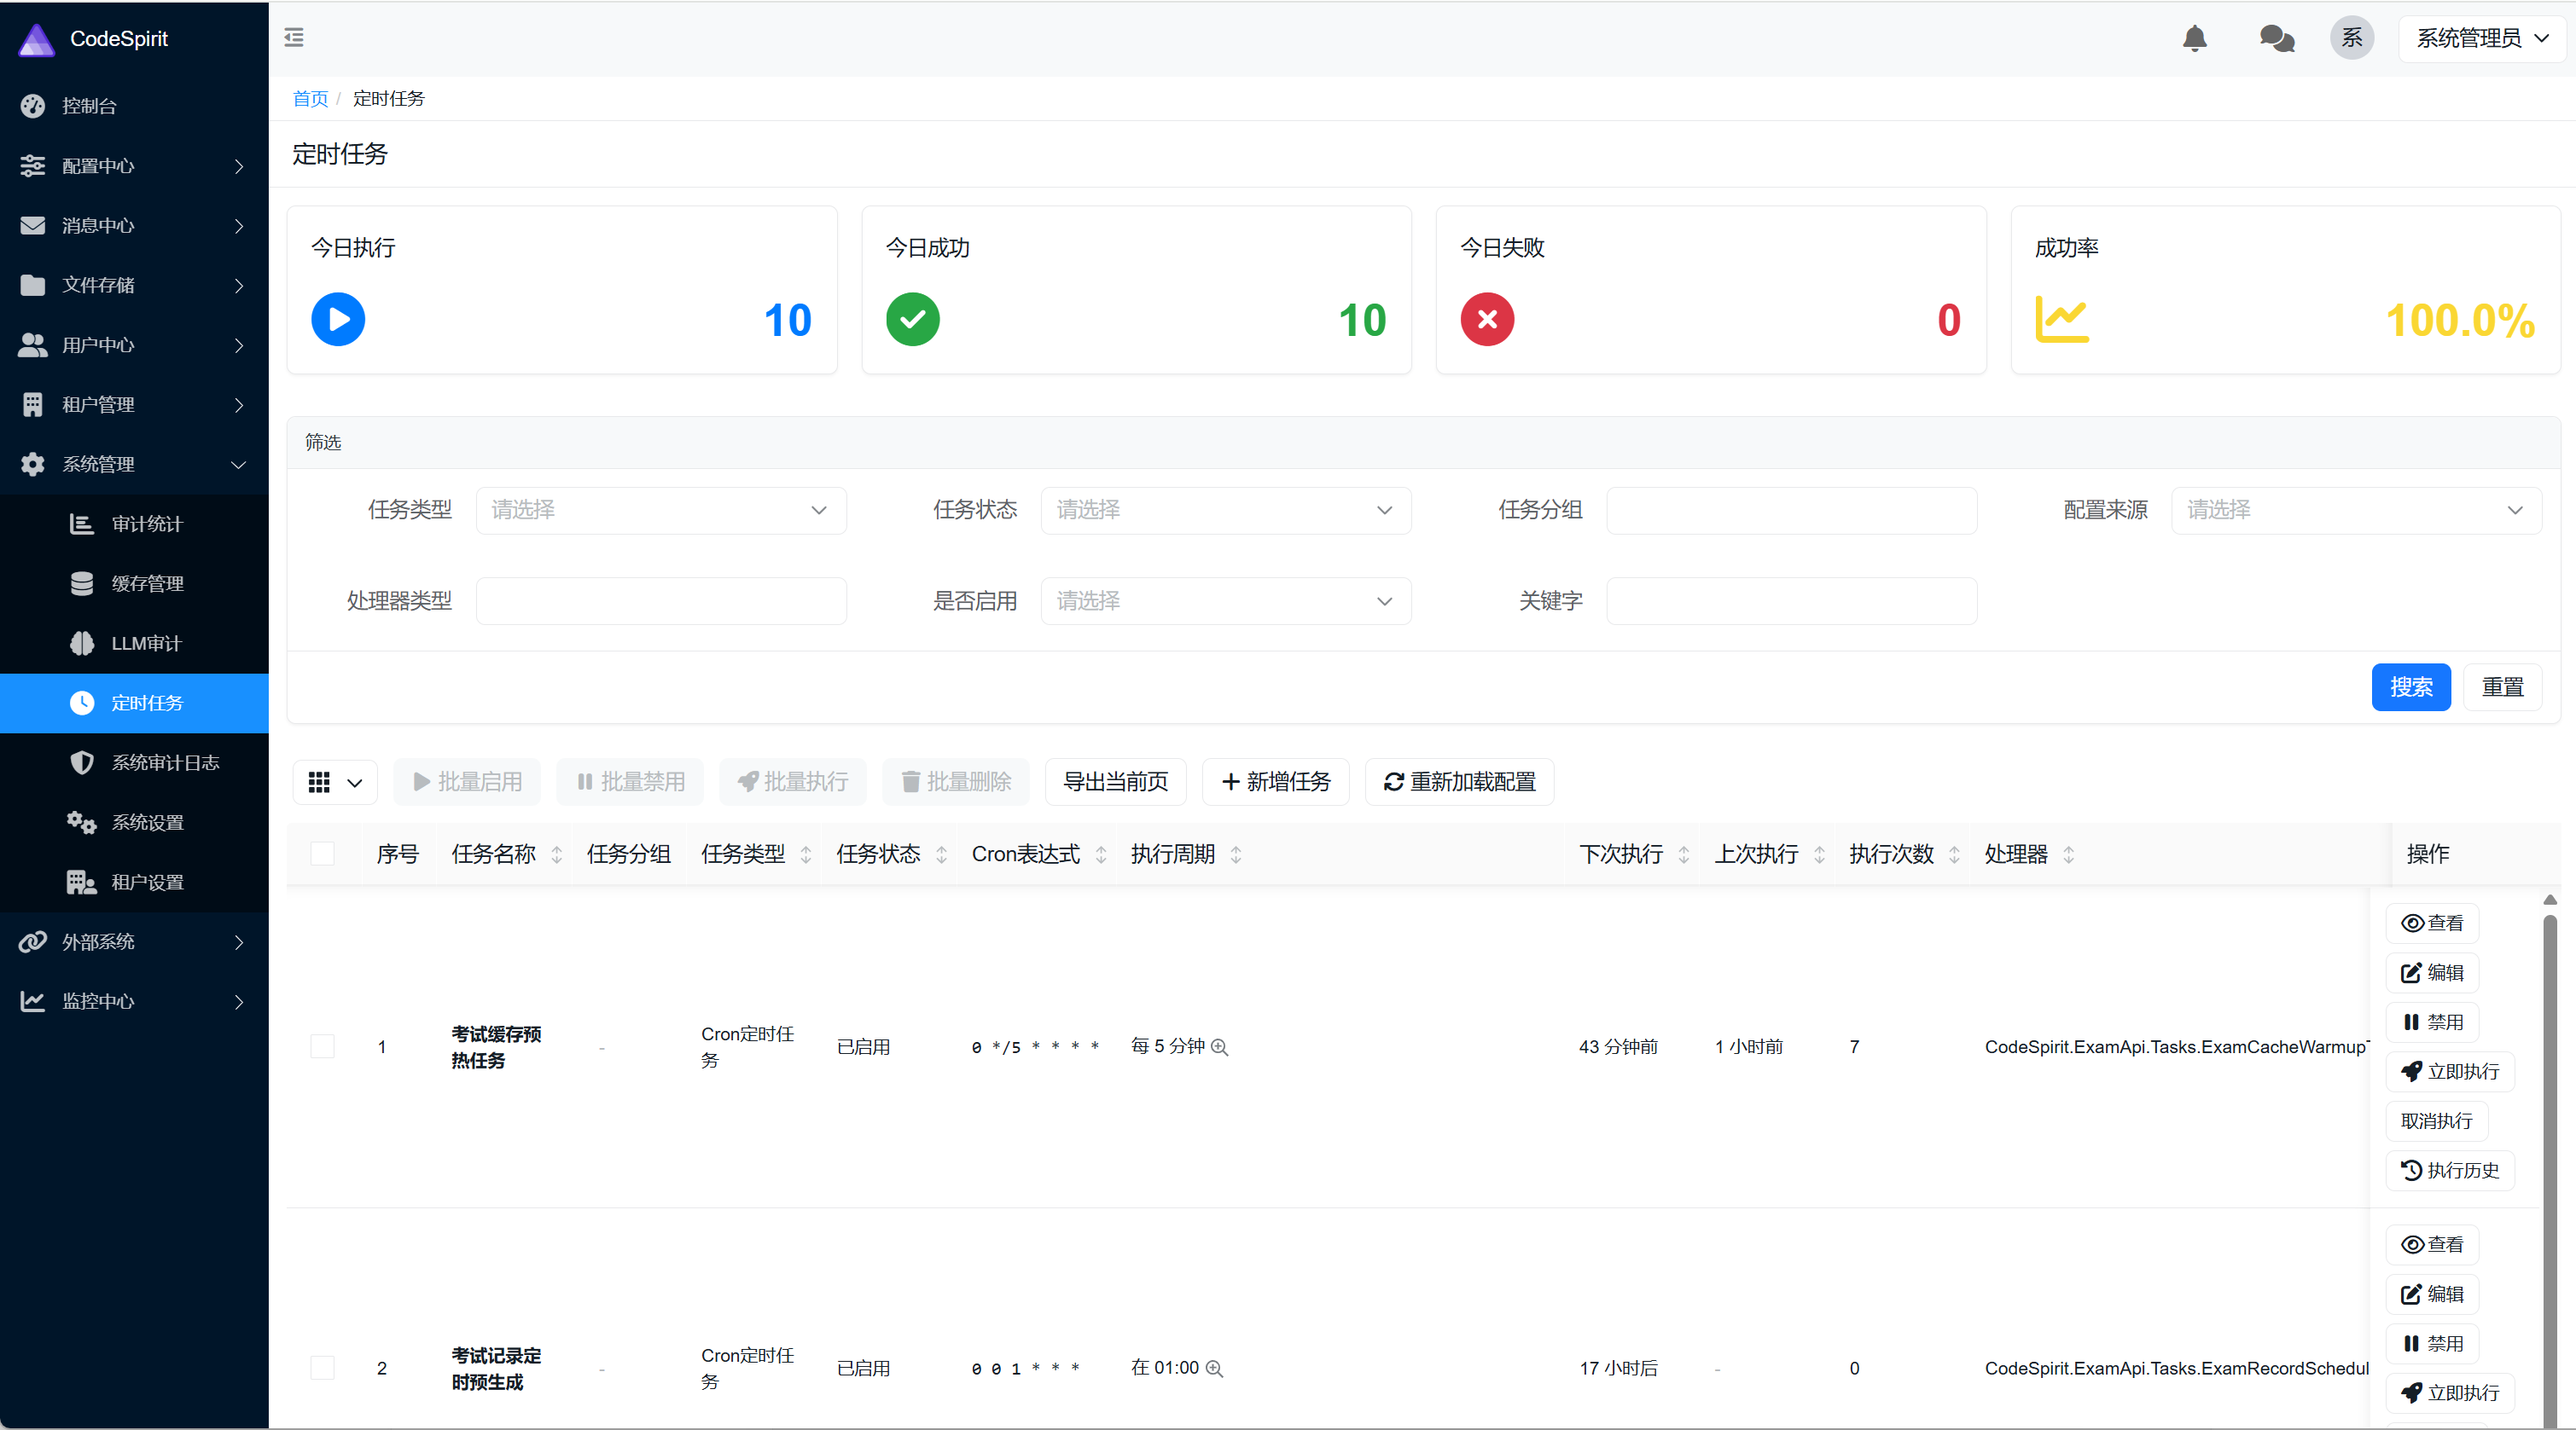
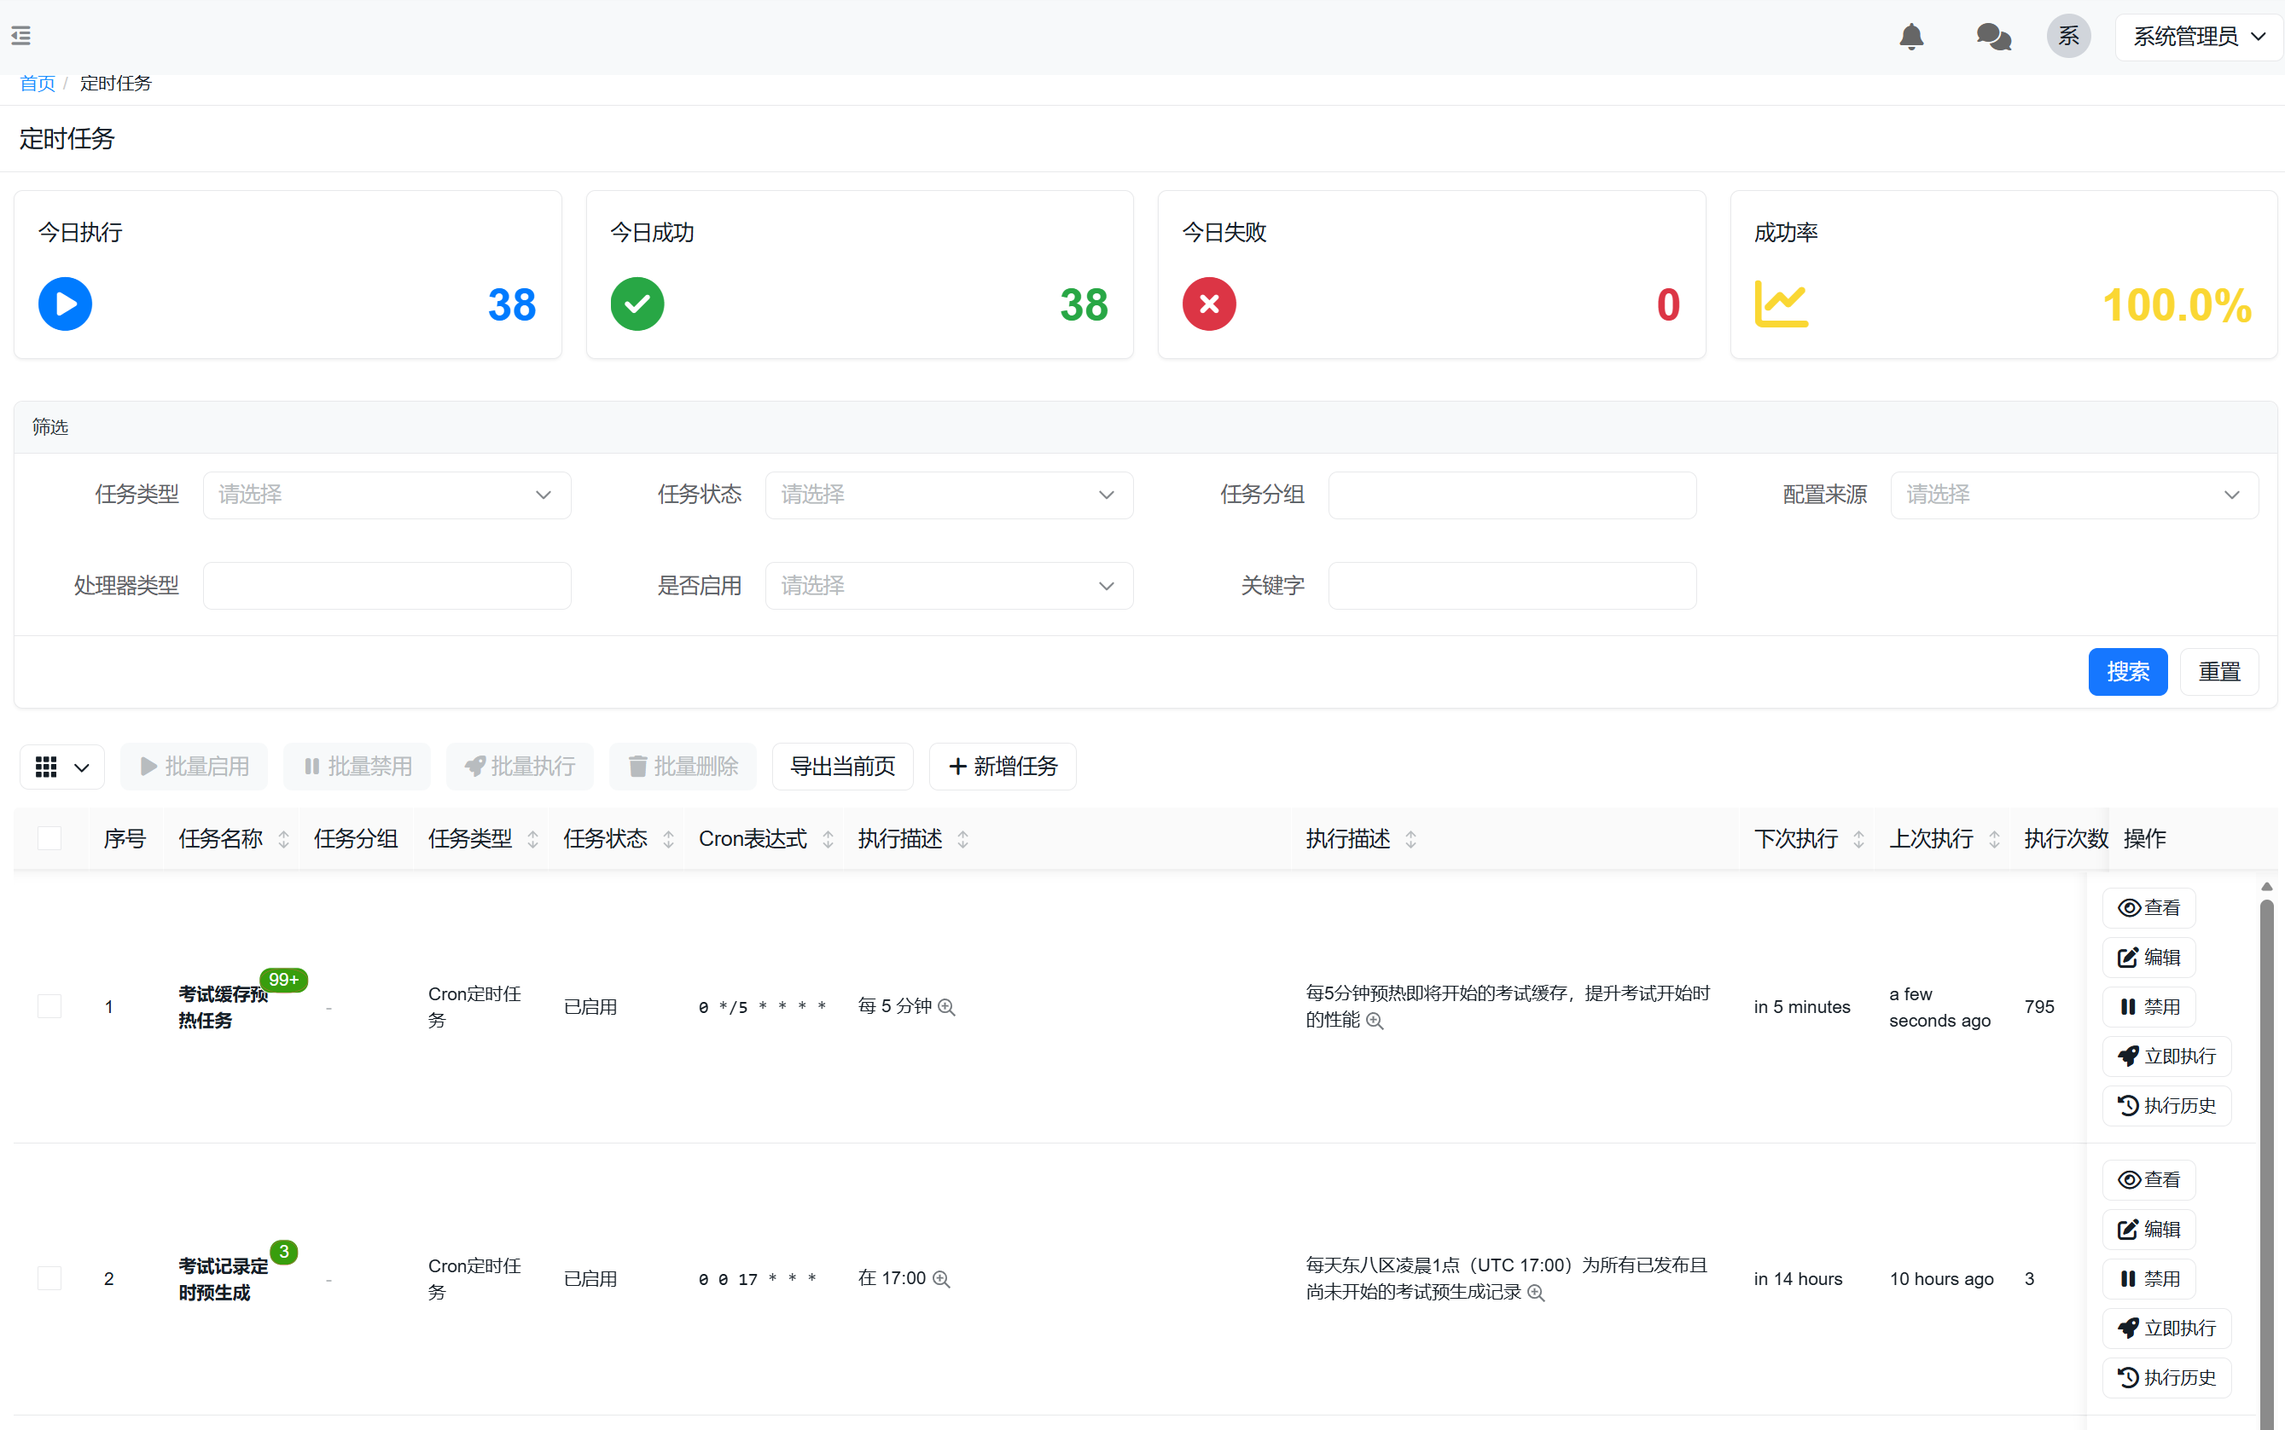
更新文档

diff --git a/Docs/02-UI-Generation/codespirit-statistics-cards-guide-zh-CN.md b/Docs/02-UI-Generation/codespirit-statistics-cards-guide-zh-CN.md
@@ -4,6 +4,8 @@
 
 CodeSpirit 提供了统计卡片自动生成功能，允许开发者在控制器上通过强类型配置自动在页面顶部生成统计指标卡片。统计卡片以卡片形式展示关键指标数据，支持自动刷新、响应式布局和自定义样式。
 
+![image-20260113101456767](../../Res/image-20260113101456767.png)
+
 ![image-20260109154846653](../../Res/image-20260109154846653.png)
 
 ### 主要特性

diff --git a/Docs/09-Exam-System/exam-record-pregeneration-zh-CN.md b/Docs/09-Exam-System/exam-record-pregeneration-zh-CN.md
@@ -2,6 +2,8 @@
 
 ## 1. 概述
 
+![image-20260113101456767](../../Res/image-20260113101456767.png)
+
 ### 1.1 背景
 
 在考试系统中，当大量学生同时开始考试时，系统需要为每个学生创建考试记录（`ExamRecord`）和答题记录（`ExamAnswerRecord`）。传统的"按需创建"模式在高并发场景下存在以下问题：

diff --git a/Docs/09-Exam-System/exam-system-complete-documentation-zh-CN.md b/Docs/09-Exam-System/exam-system-complete-documentation-zh-CN.md
@@ -382,6 +382,8 @@ graph TB
 
 ### 4.5 成绩管理
 
+![image-20260113101456767](../../Res/image-20260113101456767.png)
+
 #### 自动评分
 客观题（单选、多选、判断）提交后自动评分：
 - 实时计算得分
